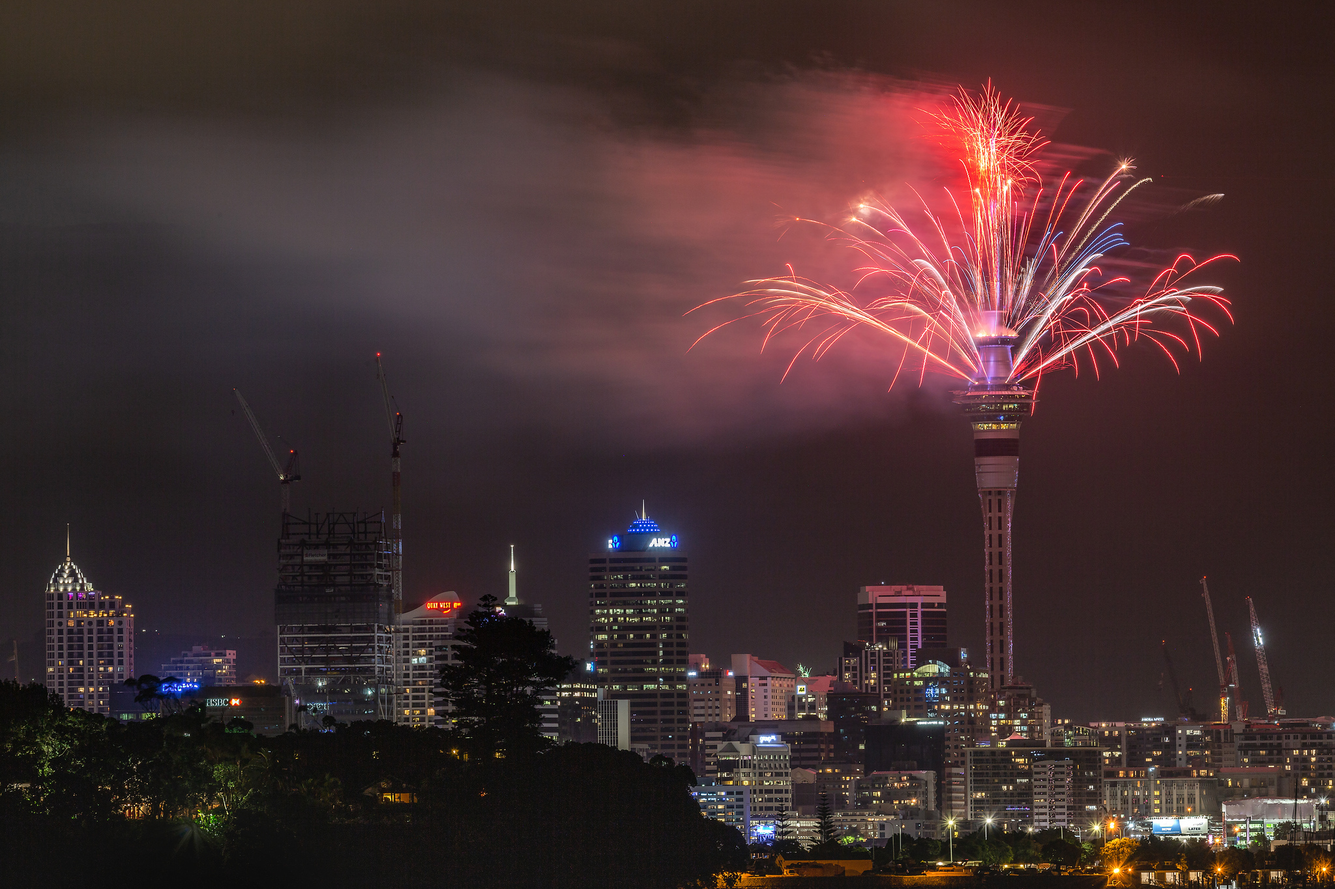
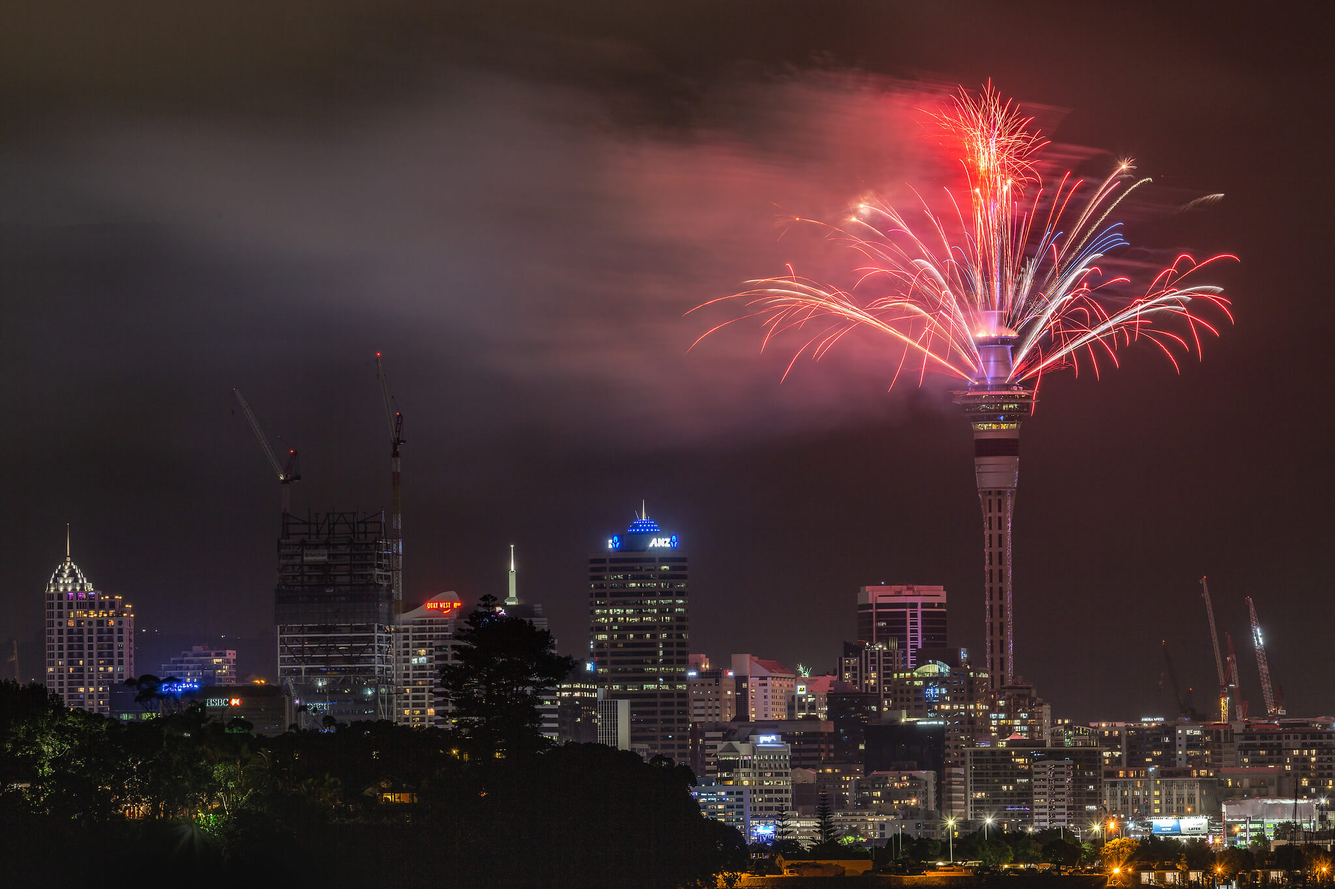
optimise images and fix broken link

diff --git a/src/templates/blogTemplate.js b/src/templates/blogTemplate.js
@@ -1,40 +1,38 @@
-import React from 'react'
-import { graphql, Link } from 'gatsby'
-import Layout from '../../src/components/layout'
-import Disqus from 'disqus-react'
-import { FontAwesomeIcon } from '@fortawesome/react-fontawesome'
+import React from 'react';
+import { graphql, Link } from 'gatsby';
+import Layout from '../../src/components/layout';
+import Disqus from 'disqus-react';
+import { FontAwesomeIcon } from '@fortawesome/react-fontawesome';
 // eslint-disable-next-line
-import Img from "gatsby-image"
+import Img from "gatsby-image";
 // eslint-disable-next-line
-import taupo from '../images/lake-taupo-evening.jpg'
+import taupo from '../images/lake-taupo-evening.jpg';
 // eslint-disable-next-line
-import cityEvening from '../images/city-reflections-evening.jpg'
+import cityEvening from '../images/city-reflections-evening.jpg';
 // eslint-disable-next-line
-import cityMorning from '../images/city-reflections-morning.jpg'
+import cityMorning from '../images/city-reflections-morning.jpg';
 // eslint-disable-next-line
-import cornwallis from '../images/cornwallis.jpg'
+import cornwallis from '../images/cornwallis.jpg';
 // eslint-disable-next-line
-import nationalPark from '../images/national-park-evening.jpg'
+import nationalPark from '../images/national-park-evening.jpg';
 // eslint-disable-next-line
-import muriwai from '../images/muriwai.jpg'
+import muriwai from '../images/muriwai.jpg';
 // eslint-disable-next-line
-import milkywayMuriwai from '../images/muriwai-milkyway.jpg'
+import milkywayMuriwai from '../images/muriwai-milkyway.jpg';
 // eslint-disable-next-line
-import jestAbout from '../images/jest-about.jpg'
+import jestAbout from '../images/jest-about.jpg';
 // eslint-disable-next-line
-import wildMuriwai from '../images/wild-muriwai.jpg'
+import wildMuriwai from '../images/wild-muriwai.jpg';
 // eslint-disable-next-line
-import jacksLighthouse from '../images/jacks-lighthouse.jpg'
+import jacksLighthouse from '../images/jacks-lighthouse.jpg';
 // eslint-disable-next-line
-import aucklandFireworks from '../images/Auckland-fireworks.jpg'
+import aucklandFireworks from '../images/Auckland-fireworks.jpg';
 // eslint-disable-next-line
-import arabic from '../images/arabic.jpg'
+import sydneyHarbourBridge from '../images/sydney-harbour-bridge.jpg';
 // eslint-disable-next-line
-import sydneyHarbourBridge from '../images/sydney-harbour-bridge.jpg'
+import BBCScreenshots from '../images/BBC-screenshots.jpg';
 // eslint-disable-next-line
-import BBCScreenshots from '../images/BBC-screenshots.jpg'
-// eslint-disable-next-line
-import ya from '../images/ya.png'
+import ya from '../images/ya.png';
 
 import {
     FacebookShareButton,
@@ -52,16 +50,16 @@ import {
 export default function Template({
     data // this contains props that will be injected by the GraphQL query below
 }) {
-    const { markdownRemark, site } = data // this is the post
-    const { frontmatter, html } = markdownRemark
-    const title = frontmatter.title
-    const shareUrl = site.siteMetadata.siteUrl+frontmatter.path
-    const disqusShortname = 'www-cornelia-schulz-net'
+    const { markdownRemark, site } = data; // this is the post
+    const { frontmatter, html } = markdownRemark;
+    const title = frontmatter.title;
+    const shareUrl = site.siteMetadata.siteUrl+frontmatter.path;
+    const disqusShortname = 'www-cornelia-schulz-net';
     const disqusConfig = {
         
         identifier: frontmatter.title,
         title: frontmatter.title
-    }
+    };
 
     return (
         <Layout>
@@ -108,7 +106,7 @@ export default function Template({
                     <EmailShareButton
                         url={shareUrl}
                         subject='Lost in translation'
-                        body='Check out this blog I found about localisation at https://www.cornelia-schulz.net' 
+                        body='Check out this blog I found at https://www.cornelia-schulz.net' 
                         className='socialMediaLink'>
                         <EmailIcon
                         size={28}

diff --git a/src/pages/index.js b/src/pages/index.js
@@ -1,9 +1,9 @@
-import React from 'react'
-import {Link, graphql} from 'gatsby'
-import PostLink from '../components/post-link'
-import Layout from '../components/layout'
-import {FontAwesomeIcon} from '@fortawesome/react-fontawesome'
-import Piha from '../images/Bethells.jpg'
+import React from 'react';
+import {Link, graphql} from 'gatsby';
+import PostLink from '../components/post-link';
+import Layout from '../components/layout';
+import {FontAwesomeIcon} from '@fortawesome/react-fontawesome';
+import Piha from '../images/Bethells.jpg';
 import {
   FacebookShareButton,
   TwitterShareButton,

diff --git a/src/pages/tags.js b/src/pages/tags.js
@@ -1,11 +1,11 @@
-import React from 'react'
-import PropTypes from 'prop-types'
-import {graphql} from 'gatsby'
+import React from 'react';
+import PropTypes from 'prop-types';
+import {graphql} from 'gatsby';
 
-import kebabCase from 'lodash/kebabCase'
+import kebabCase from 'lodash/kebabCase';
 
-import Helmet from 'react-helmet'
-import Link from 'gatsby-link'
+import Helmet from 'react-helmet';
+import Link from 'gatsby-link';
 
 const TagsPage = ({
   data: {

diff --git a/src/pages/about.js b/src/pages/about.js
@@ -1,10 +1,10 @@
-import React from "react"
-import Layout from '../components/layout'
+import React from "react";
+import Layout from '../components/layout';
 
 export default () => (
   <Layout>
   <div style={{ color: `teal` }}>
-    <h1>About the author</h1>
+    <h1>About me</h1>
     <p>Such wow. Very React.</p>
   </div>
   </Layout>

diff --git a/src/pages/2018-05-21-localisation-the-very-basics/index.md b/src/pages/2018-05-21-localisation-the-very-basics/index.md
@@ -20,6 +20,6 @@ It is the provision of service for the linguistic and cultural adaption of produ
 
 As part of localistion, time, date and number formats need to be adapted, the correct currencies and payment methods need to be used. In some cases images and colours need to be adapted as well as some colours may have different connotations in different cultures.
 
-In comparison what is __internationalisation__?Internationalisation can also be abbreviated in a similar fashion: I16N. It is the process of generalising a product in such a way that it can be adapted in various languages and cultural conventions without having to redesign the product every single time you would like to publish it in another market.
+In comparison what is __internationalisation__? Internationalisation can also be abbreviated in a similar fashion: I16N. It is the process of generalising a product in such a way that it can be adapted in various languages and cultural conventions without having to redesign the product every single time you would like to publish it in another market.
 
 Another term worth mentioning is __globalisation__. Globalisation addresses business issues of taking a product to a global market. In terms of websites, globalisation refers to enabling that website to deal with non-English speaking visitors, i.e. internationalising the website’s back-end, designing a multilingual architecture (e.g. ensure that your databases can deal with special characters) and localising the website’s static or dynamic content.

diff --git a/src/pages/2018-10-20-I18next-testing-with-Jest/index.md b/src/pages/2018-10-20-I18next-testing-with-Jest/index.md
@@ -13,7 +13,7 @@ imagetitle: "Muriwai"
 
 # Testing React and I18next with Jest
 
-In [my last blog post](https://www.cornelia-schulz.net/localisation-With-I18next "Localisation with I18next") I showed you how to use I18next within my React application. In this post I'd like to share how to test your components that contain strings generated with I18next. In my [Photo Locations project](https://github.com/cornelia-schulz/photolocations "Photo Locations") I use Jest and Enzyme to test my code.
+In [my last blog post](https://www.cornelia-schulz.net/2018-10-07-localisation-With-I18next "Localisation with I18next") I showed you how to use I18next within my React application. In this post I'd like to share how to test your components that contain strings generated with I18next. In my [Photo Locations project](https://github.com/cornelia-schulz/photolocations "Photo Locations") I use Jest and Enzyme to test my code.
 
 So first of all, if you haven't already, install Jest and Enzyme using either Yarn or npm. Follow the instructions in the [Jest tutorial for React.](https://jestjs.io/docs/en/tutorial-react "Jest tutorial for React").
 

diff --git a/src/pages/2019-02-08-localisation-into-arabic-part-1/index.md b/src/pages/2019-02-08-localisation-into-arabic-part-1/index.md
@@ -5,6 +5,7 @@ date: "2019-02-08"
 tags: ["localisation", "localization", "internationalisation", "internationalization", "translation", "globalisation", "globalization", "challenges", "Arabic"]
 published: true
 previous: "/2019-01-11-detecting-user-locales-in-javascript-and-react"
+next: "/2019-02-10-localisation-into-arabic-part-2"
 blurb: "Arabic is the fifth most widely spoken language in the world. If you would like to be a successful online presence for Arab users, you will need to apply UX and usability considerations that are specific to this region. Continue reading if you would like to find out more."
 image: "/static/Auckland-fireworks-cb6d25c8e7c65fb706f6a4f5d5d6d39c.jpg"
 imagetitle: "Auckland Fireworks"
